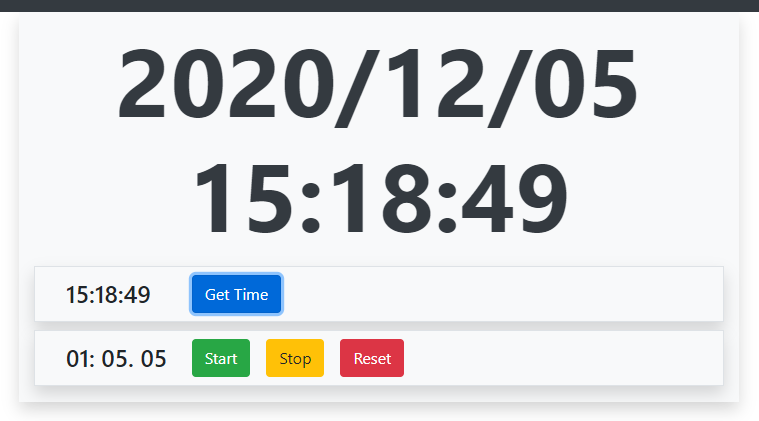
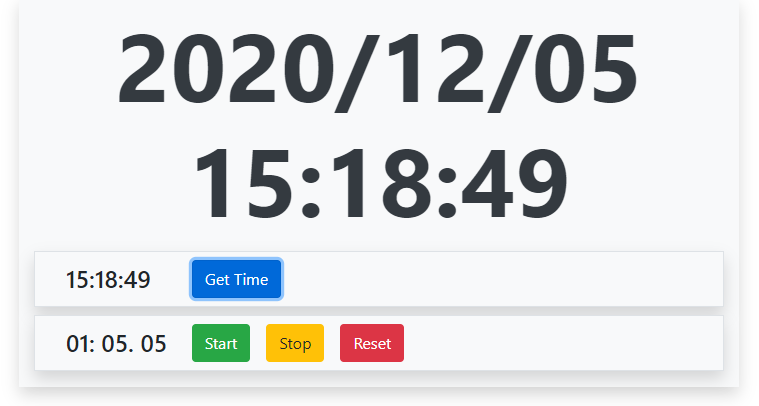
Home page update

diff --git a/src/pages/Clock.js b/src/pages/Clock.js
@@ -44,7 +44,7 @@ function Clock() {
             //tick the counter each second
             counter = setInterval(() => {
                 setCountSecond(countSecond => countSecond + 1);
-                if (countSecond == 59) {
+                if (countSecond === 59) {
                     setCountSecond(0);
                     setCountMinute(countMinute => countMinute + 1);
                 }
@@ -88,18 +88,18 @@ function Clock() {
         : `${hour} ${minute} ${second}`;
     return (
         <div className="clock container bg-light border-top-0 shadow py-2">
-            <div className="date text-center  text-dark display-1 font-weight-bold">{clockDate}</div>
-            <div className="time text-center text-dark  display-1 font-weight-bold pb-2">{clockTime}</div>
+            <h1 className="date text-center  text-dark display-3 font-weight-bold">{clockDate}</h1>
+            <h1 className="time text-center text-dark  display-3 font-weight-bold pb-2">{clockTime}</h1>
 
             <div className="container row  no-gutters bg-light border shadow py-2 my-2">
-                <h4 className='col-2 my-1 mx-3'>{currentTime}</h4>
+                <h4 className='col-2 my-1 mx-2'>{currentTime}</h4>
                 <button className='btn btn-primary' onClick={() => handleOnGetTime()}>Get Time</button>
             </div>
 
             <div className="container row  no-gutters bg-light border shadow py-2 my-2">
-                <h4 className='col-2 my-1 mx-3'>{counts}</h4>
-                <button className='btn btn-success mr-3' onClick={() => setCountStarted(true)}>Start</button>
-                <button className='btn btn-warning mr-3' onClick={() => setCountStarted(false)}>Stop</button>
+                <h4 className='col-2 my-1 mx-2'>{counts}</h4>
+                <button className='btn btn-success mr-2' onClick={() => setCountStarted(true)}>Start</button>
+                <button className='btn btn-warning mr-2' onClick={() => setCountStarted(false)}>Stop</button>
                 <button className='btn btn-danger' onClick={() => handleOnClear()}>Reset</button>
 
             </div>

diff --git a/src/components/Home/HomeCards.js b/src/components/Home/HomeCards.js
@@ -1,0 +1,58 @@
+import React, { useEffect } from 'react'
+import {Link} from "react-router-dom";
+
+import ShoppingBuddyDemo from '../../demo/ShoppingBuddyDemo.png'
+import ClockDemo from '../../demo/ClockDemo.png'
+import CocktailDemo from '../../demo/CocktailDemo.png'
+import TicTacToeDemo from '../../demo/TicTacToeDemo.png'
+const HomeCard = () => {
+
+    const cards = [
+        {   
+            img: ShoppingBuddyDemo,
+            name: 'ShoppingBuddy',
+            link: '/ShoppingBuddy'
+        },
+        {
+            img: ClockDemo,
+            name: 'Clock',
+            link: '/Clock'
+        },
+        {
+            img: CocktailDemo,
+            name: 'Cocktail',
+            link: '/Cocktail'
+        },
+        {
+            img: TicTacToeDemo,
+            name: 'TicTacToe',
+            link: '/TicTacToe'
+        }
+        
+    ]
+
+    return (
+        <div className='card-columns'>
+            {cards.map((card)=> {
+                return (
+                    <div className=' card bg-dark' >
+                        <img 
+                            className='card-img-top'
+                            alt='ShoppingBuddy'
+                            src={card.img}
+                        ></img>
+                        <div className="card-body">
+                            <h4 className="card-title text-light">{card.name}</h4>
+                            <Link to={card.link} >
+                                <button className='btn btn-light'> Details </button>
+                            </Link>
+                        </div>
+                    </div>
+                )
+            })}
+        </div>
+        
+    );
+}
+
+export default HomeCard

diff --git a/src/pages/Home.js b/src/pages/Home.js
@@ -1,15 +1,20 @@
 import React from 'react'
-// import {
-//     BrowserRouter as Router,
-//     Switch,
-//     Route,
-//     Link
-// } from "react-router-dom";
+import {
+    BrowserRouter as Router,
+    Switch,
+    Route,
+    Link
+} from "react-router-dom";
+
+
+import HomeCards from '../components/Home/HomeCards'
 function Home() {
 
     return (
-        <div className='container text-center'>
-            <h1 className='my-3'>Home Page</h1>
+        <div className='container'>
+            <h1 className='my-3  text-center'>React Projects</h1>
+            <HomeCards / >
+            
         </div>
     );
 }

diff --git a/src/components/ShoppingBuddy/Alert.js b/src/components/ShoppingBuddy/Alert.js
@@ -1,15 +1,15 @@
 import React, { useEffect } from 'react'
 
-const Alert = ({msg, color, removeAlert}) => {
+const Alert = ({ msg, color, removeAlert }) => {
     useEffect(() => {
         const timeout = setTimeout(() => {
             removeAlert();
         }, 2000);
         return () => clearTimeout(timeout);
     })
-  return (
-    <div className={`mt-4 py-2  col text-center alert alert-${color}`}>{msg}</div>
-  );
+    return (
+        <div className={`mt-4 py-2  col text-center alert alert-${color}`}>{msg}</div>
+    );
 }
 
 export default Alert

diff --git a/src/pages/SingleCocktail.js b/src/pages/SingleCocktail.js
@@ -85,7 +85,7 @@ const SingleCocktail = () => {
       } = cocktail
     return (
         <div className='container bg-light border-top-0 shadow pt-4 pb-2'>
-            <img src={image} alt={name} width='500px' height='500px'/>
+            <img src={image} alt={name} width='50%' height='50%'/>
             <h1>
                 {name}
             </h1>
